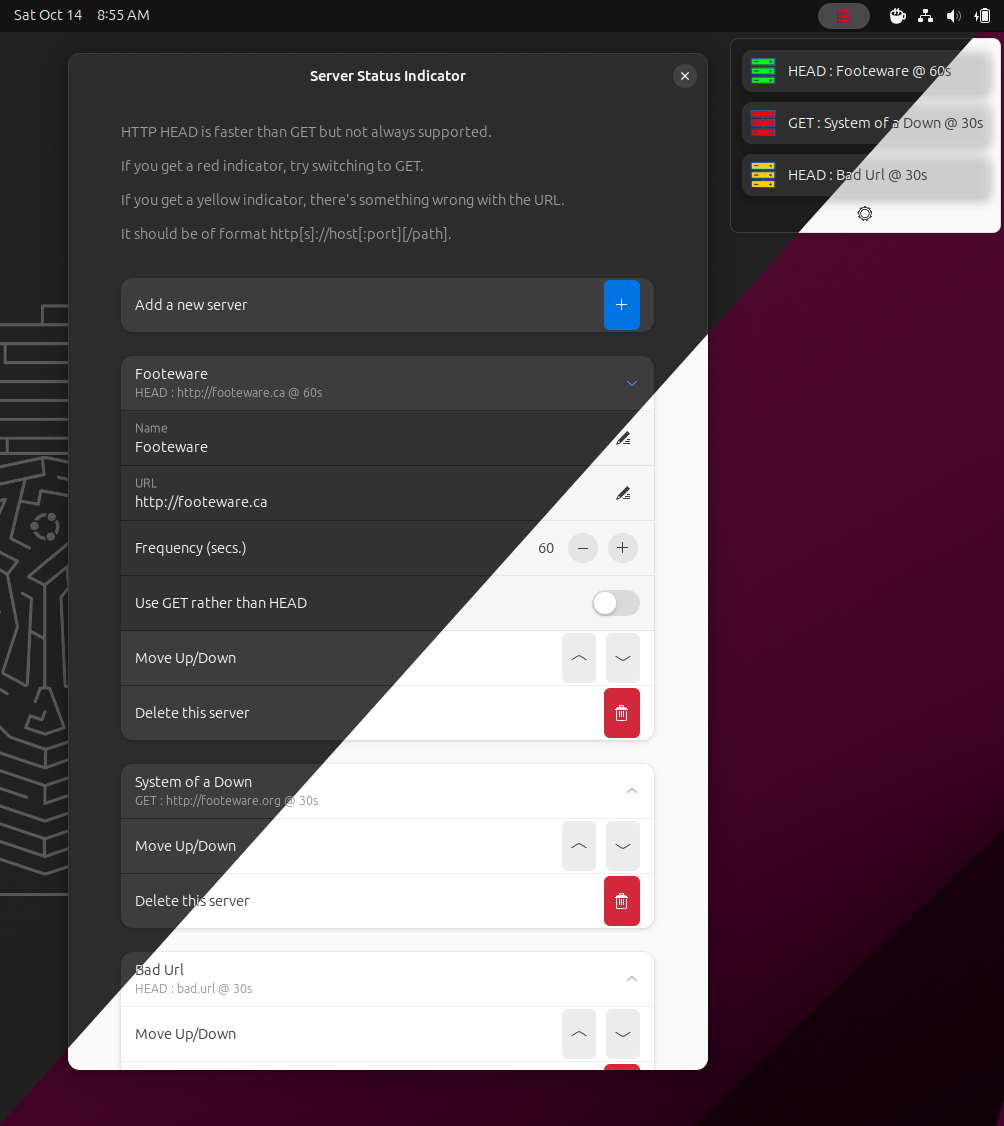
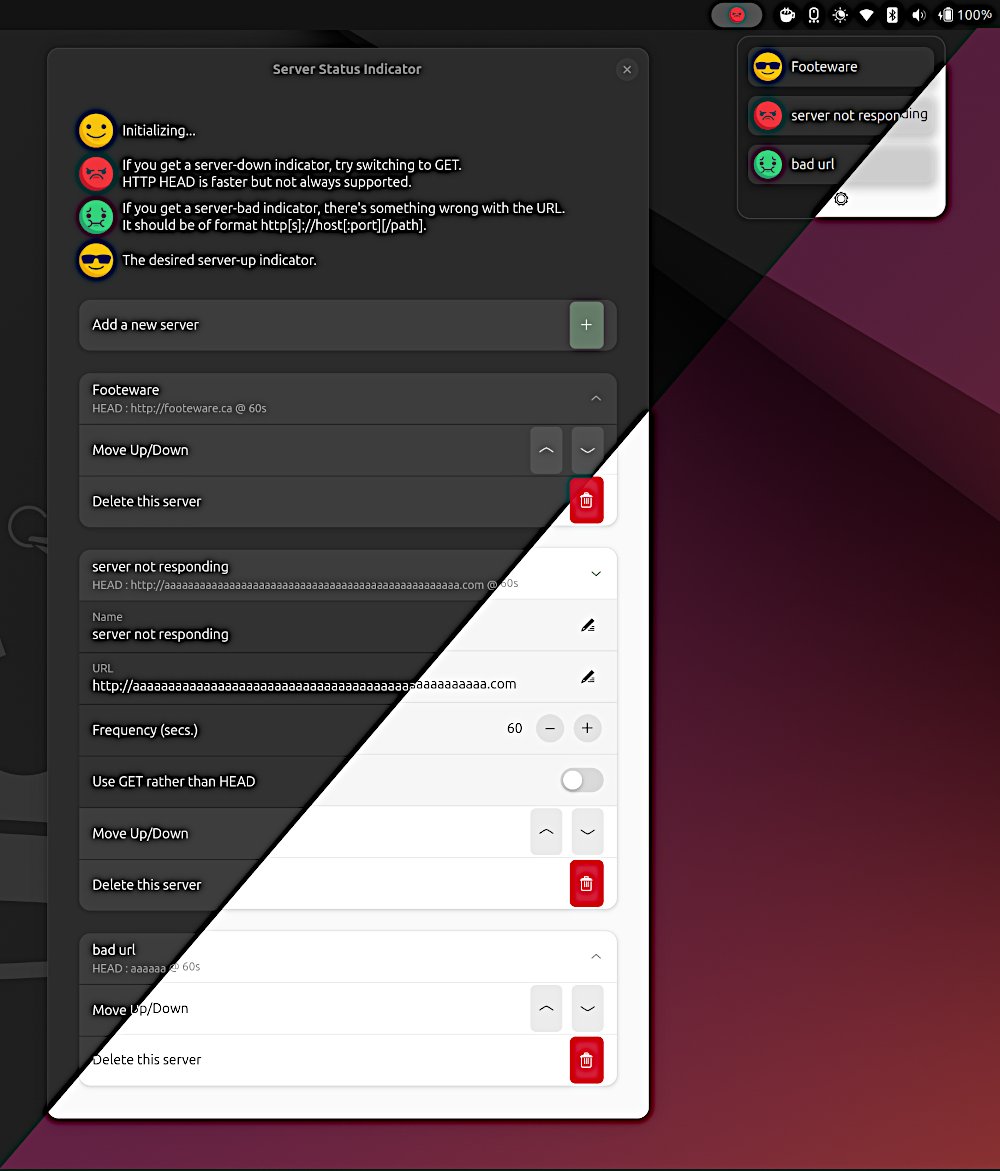
Make indicator more accessibility-friendly.

diff --git a/prefs.js b/prefs.js
@@ -24,7 +24,7 @@ export default class ServerStatusPreferences extends ExtensionPreferences {
 		const serverGroups = [];
 		this.prefSettings = this.getSettings();
 
-		// instructions
+		// instructions/help
 		const helpBox = new Gtk.Box({
 			orientation: Gtk.Orientation.VERTICAL,
 			spacing: 10,
@@ -44,7 +44,6 @@ export default class ServerStatusPreferences extends ExtensionPreferences {
 		});
 		serverInitBox.append(serverInitImage);
 		serverInitBox.append(serverInitDesc);
-
 		helpBox.append(serverInitBox);
 
 		// server-down
@@ -61,7 +60,6 @@ export default class ServerStatusPreferences extends ExtensionPreferences {
 		});
 		serverDownBox.append(serverDownImage);
 		serverDownBox.append(serverDownDesc);
-
 		helpBox.append(serverDownBox);
 
 		// server-bad
@@ -78,7 +76,6 @@ export default class ServerStatusPreferences extends ExtensionPreferences {
 		});
 		serverBadBox.append(serverBadImage);
 		serverBadBox.append(serverBadDesc);
-
 		helpBox.append(serverBadBox);
 
 		// server-up
@@ -95,7 +92,6 @@ export default class ServerStatusPreferences extends ExtensionPreferences {
 		});
 		serverUpBox.append(serverUpImage);
 		serverUpBox.append(serverUpDesc);
-
 		helpBox.append(serverUpBox);
 
 		const helpBin = new Adw.Bin({
@@ -103,8 +99,7 @@ export default class ServerStatusPreferences extends ExtensionPreferences {
 		});
 		
 		// help group
-		const helpGroup = new Adw.PreferencesGroup({
-		});
+		const helpGroup = new Adw.PreferencesGroup({});
 		helpGroup.add(helpBin);
 		this.page.add(helpGroup);
 

diff --git a/README.md b/README.md
@@ -1,17 +1,15 @@
 # serverstatus@footeware.ca
 
-A GNOME Shell extension with an indicator in the task bar displaying status of entered web server URLs: 
+A GNOME Shell extension with an indicator in the task bar displaying status of entered web server URLs using emojis: 
 
-![](assets/server.svg) extension initializing
-
-![](assets/server-up.svg) server up and responding
+![](assets/server.svg) initializing...
 
 ![](assets/server-down.svg) server down/unresponsive 
 
 ![](assets/server-bad.svg) malformed URL
 
-The task bar shows the worst status from the set of all server statuses in the popup menu. Server down is considered worse than bad url.
+![](assets/server-up.svg) server up and responding
 
-
+The task bar shows the worst status from the set of all server statuses in the popup menu. Server down is considered worse than bad URL.
 
 ![](assets/screenshot.png)
